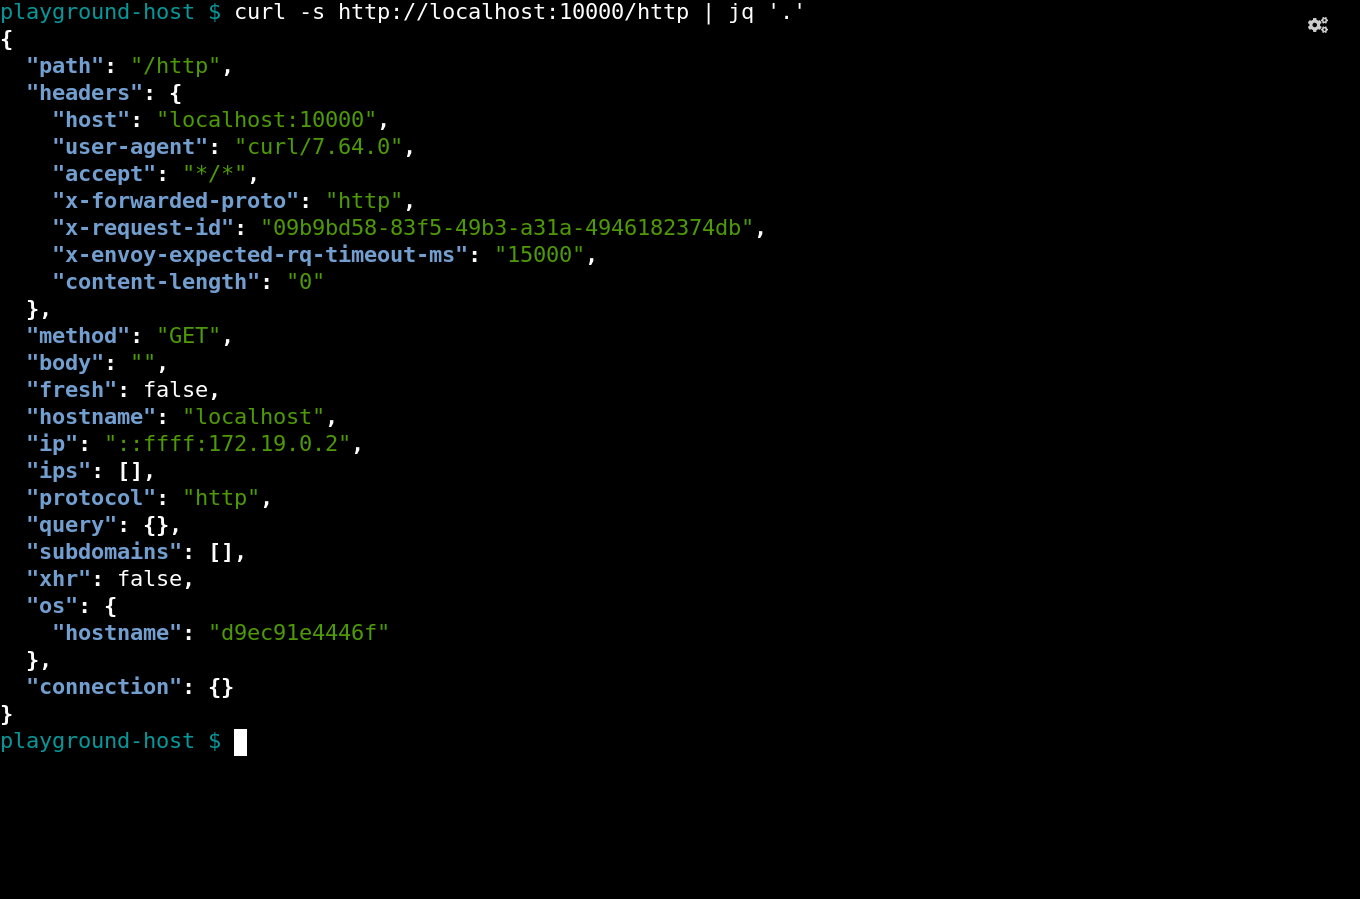
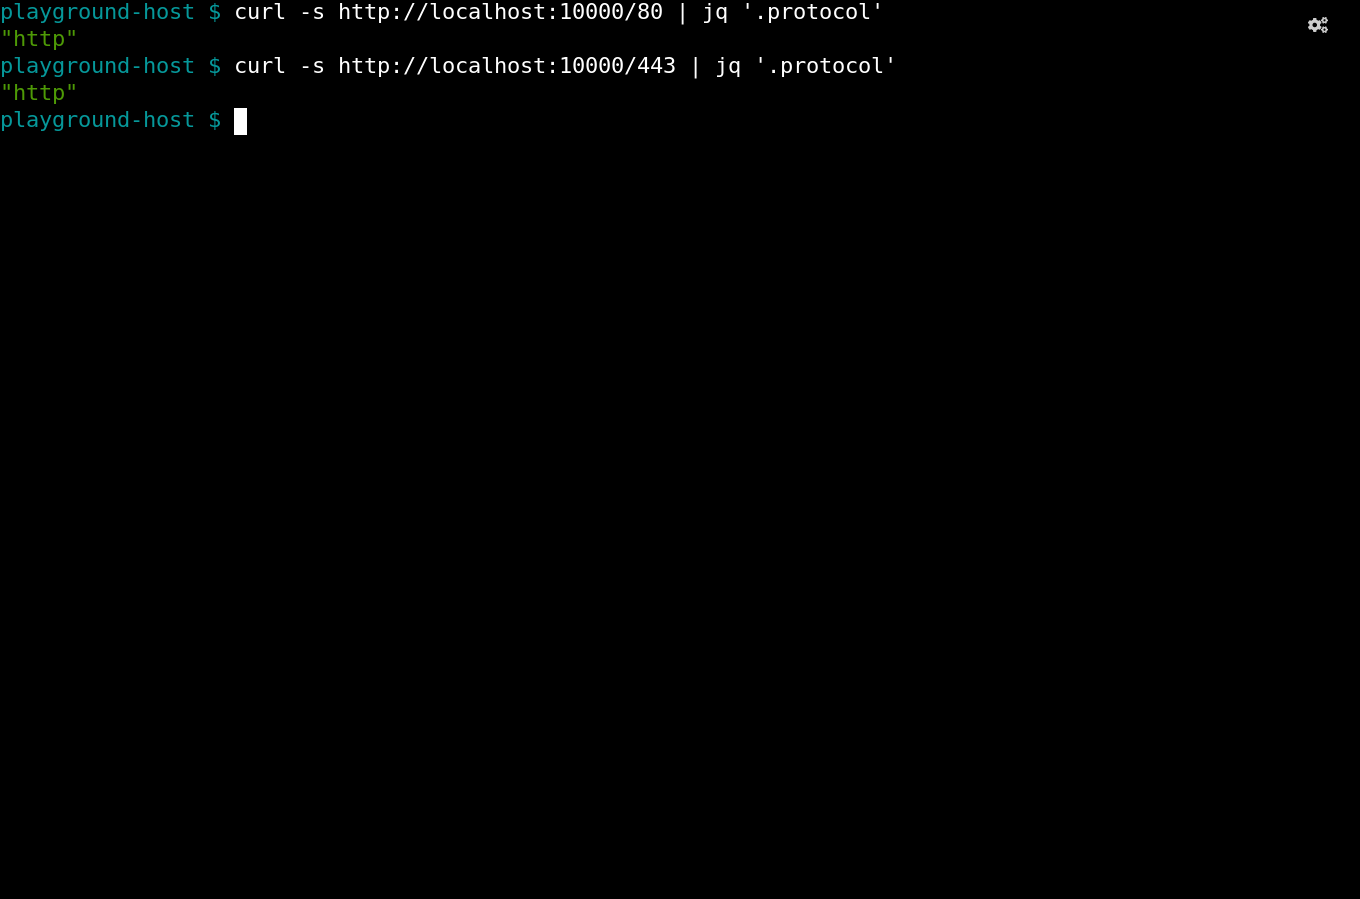
integration/

diff --git a/integration/tests/journeys/test_simple_front_proxy.py b/integration/tests/journeys/test_simple_front_proxy.py
@@ -31,10 +31,7 @@ async def test_journey_simple_front_proxy(playground):
     await playground.switch_to('console')
     await asyncio.sleep(2)
     await playground.console_command(
-        "curl -s http://localhost:10000/http | jq '.'", 1)
-    await playground.snap('journey.front_proxy.console.http', 1)
-    await playground.console_command("clear")
-    await asyncio.sleep(1)
+        "curl -s http://localhost:10000/80 | jq '.protocol'", 1)
     await playground.console_command(
-        "curl -s http://localhost:10000/https | jq '.'", 2)
-    await playground.snap('journey.front_proxy.console.https')
+        "curl -s http://localhost:10000/443 | jq '.protocol'", 2)
+    await playground.snap('journey.front_proxy.console.http')

diff --git a/docs/examples/front-proxy.rst b/docs/examples/front-proxy.rst
@@ -115,23 +115,10 @@ Network created
 
 .. rst-class::  clearfix
 
-Open a console and curl upstream ``HTTP`` on port ``10000``
------------------------------------------------------------
+Open a console and curl upstream ``HTTP/S`` on port ``10000``
+-------------------------------------------------------------
 
 ..  figure:: ../screenshots/journey.front_proxy.console.http.png
-    :figclass: screenshot with-shadow
-    :figwidth: 40%
-    :align: right
-
-
-.. _journey_front_proxy_console_http_https:
-
-.. rst-class::  clearfix
-
-Open a console and curl upstream ``HTTPS`` on port ``10000``
-------------------------------------------------------------
-
-..  figure:: ../screenshots/journey.front_proxy.console.https.png
     :figclass: screenshot with-shadow
     :figwidth: 40%
     :align: right
